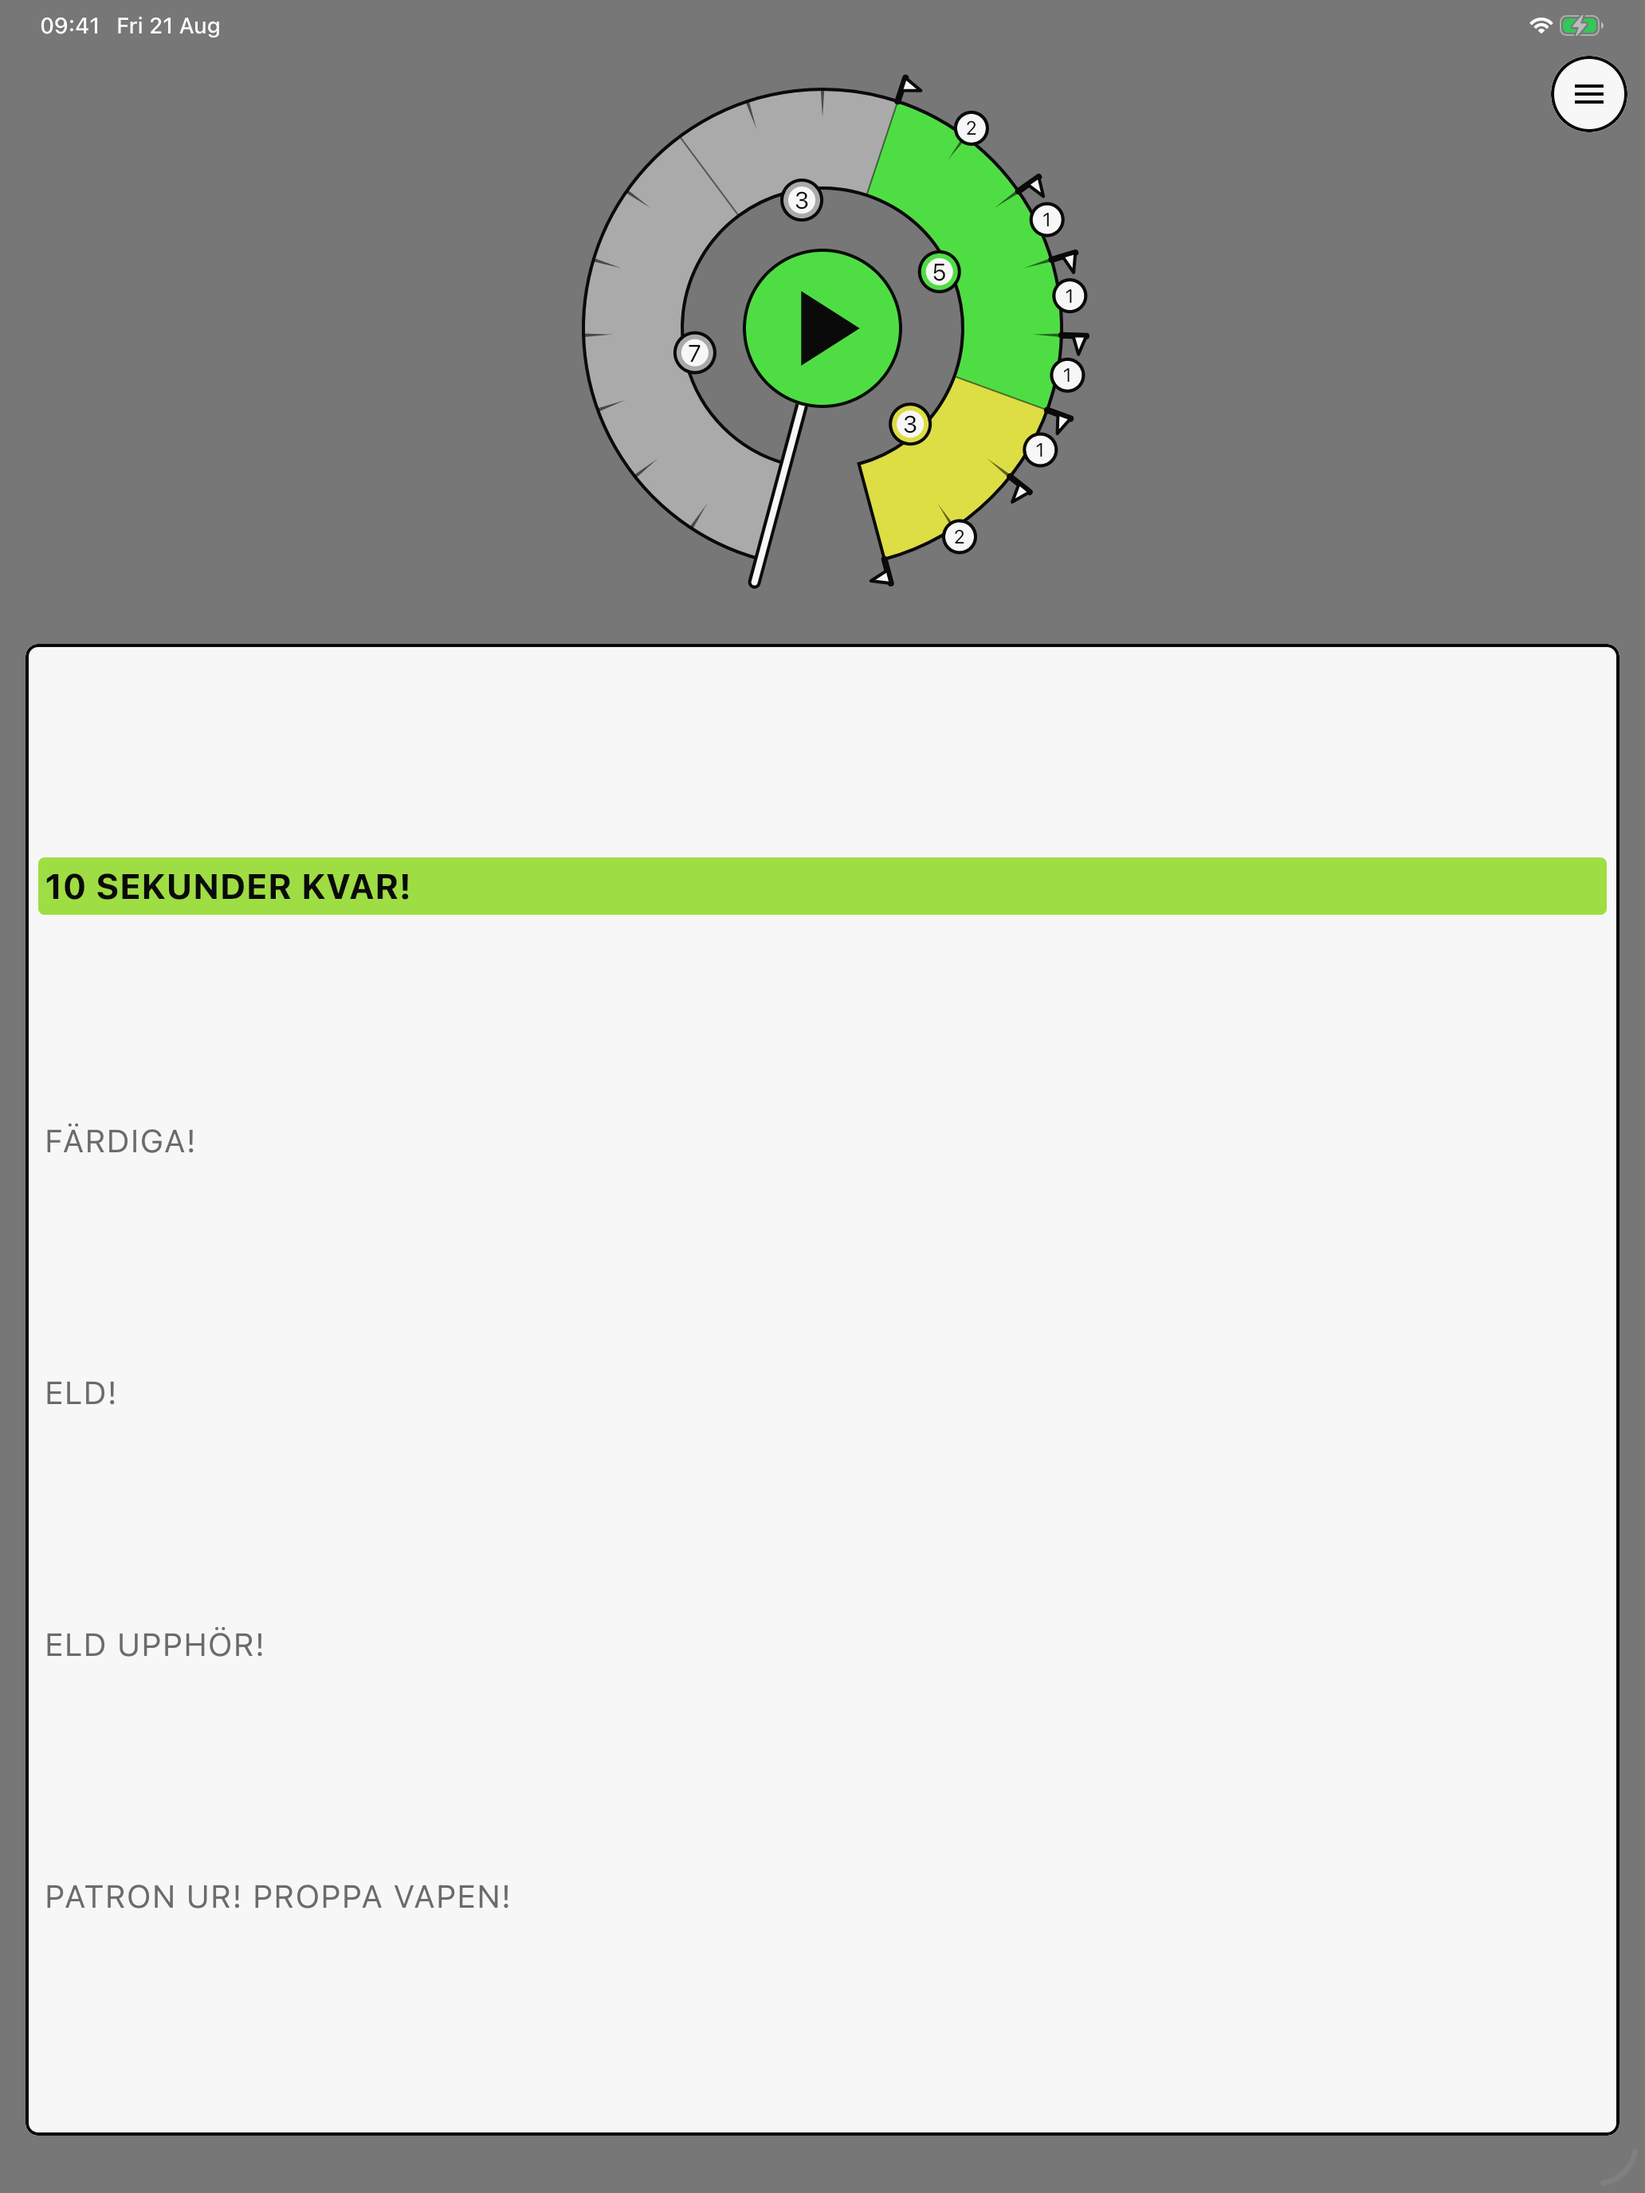
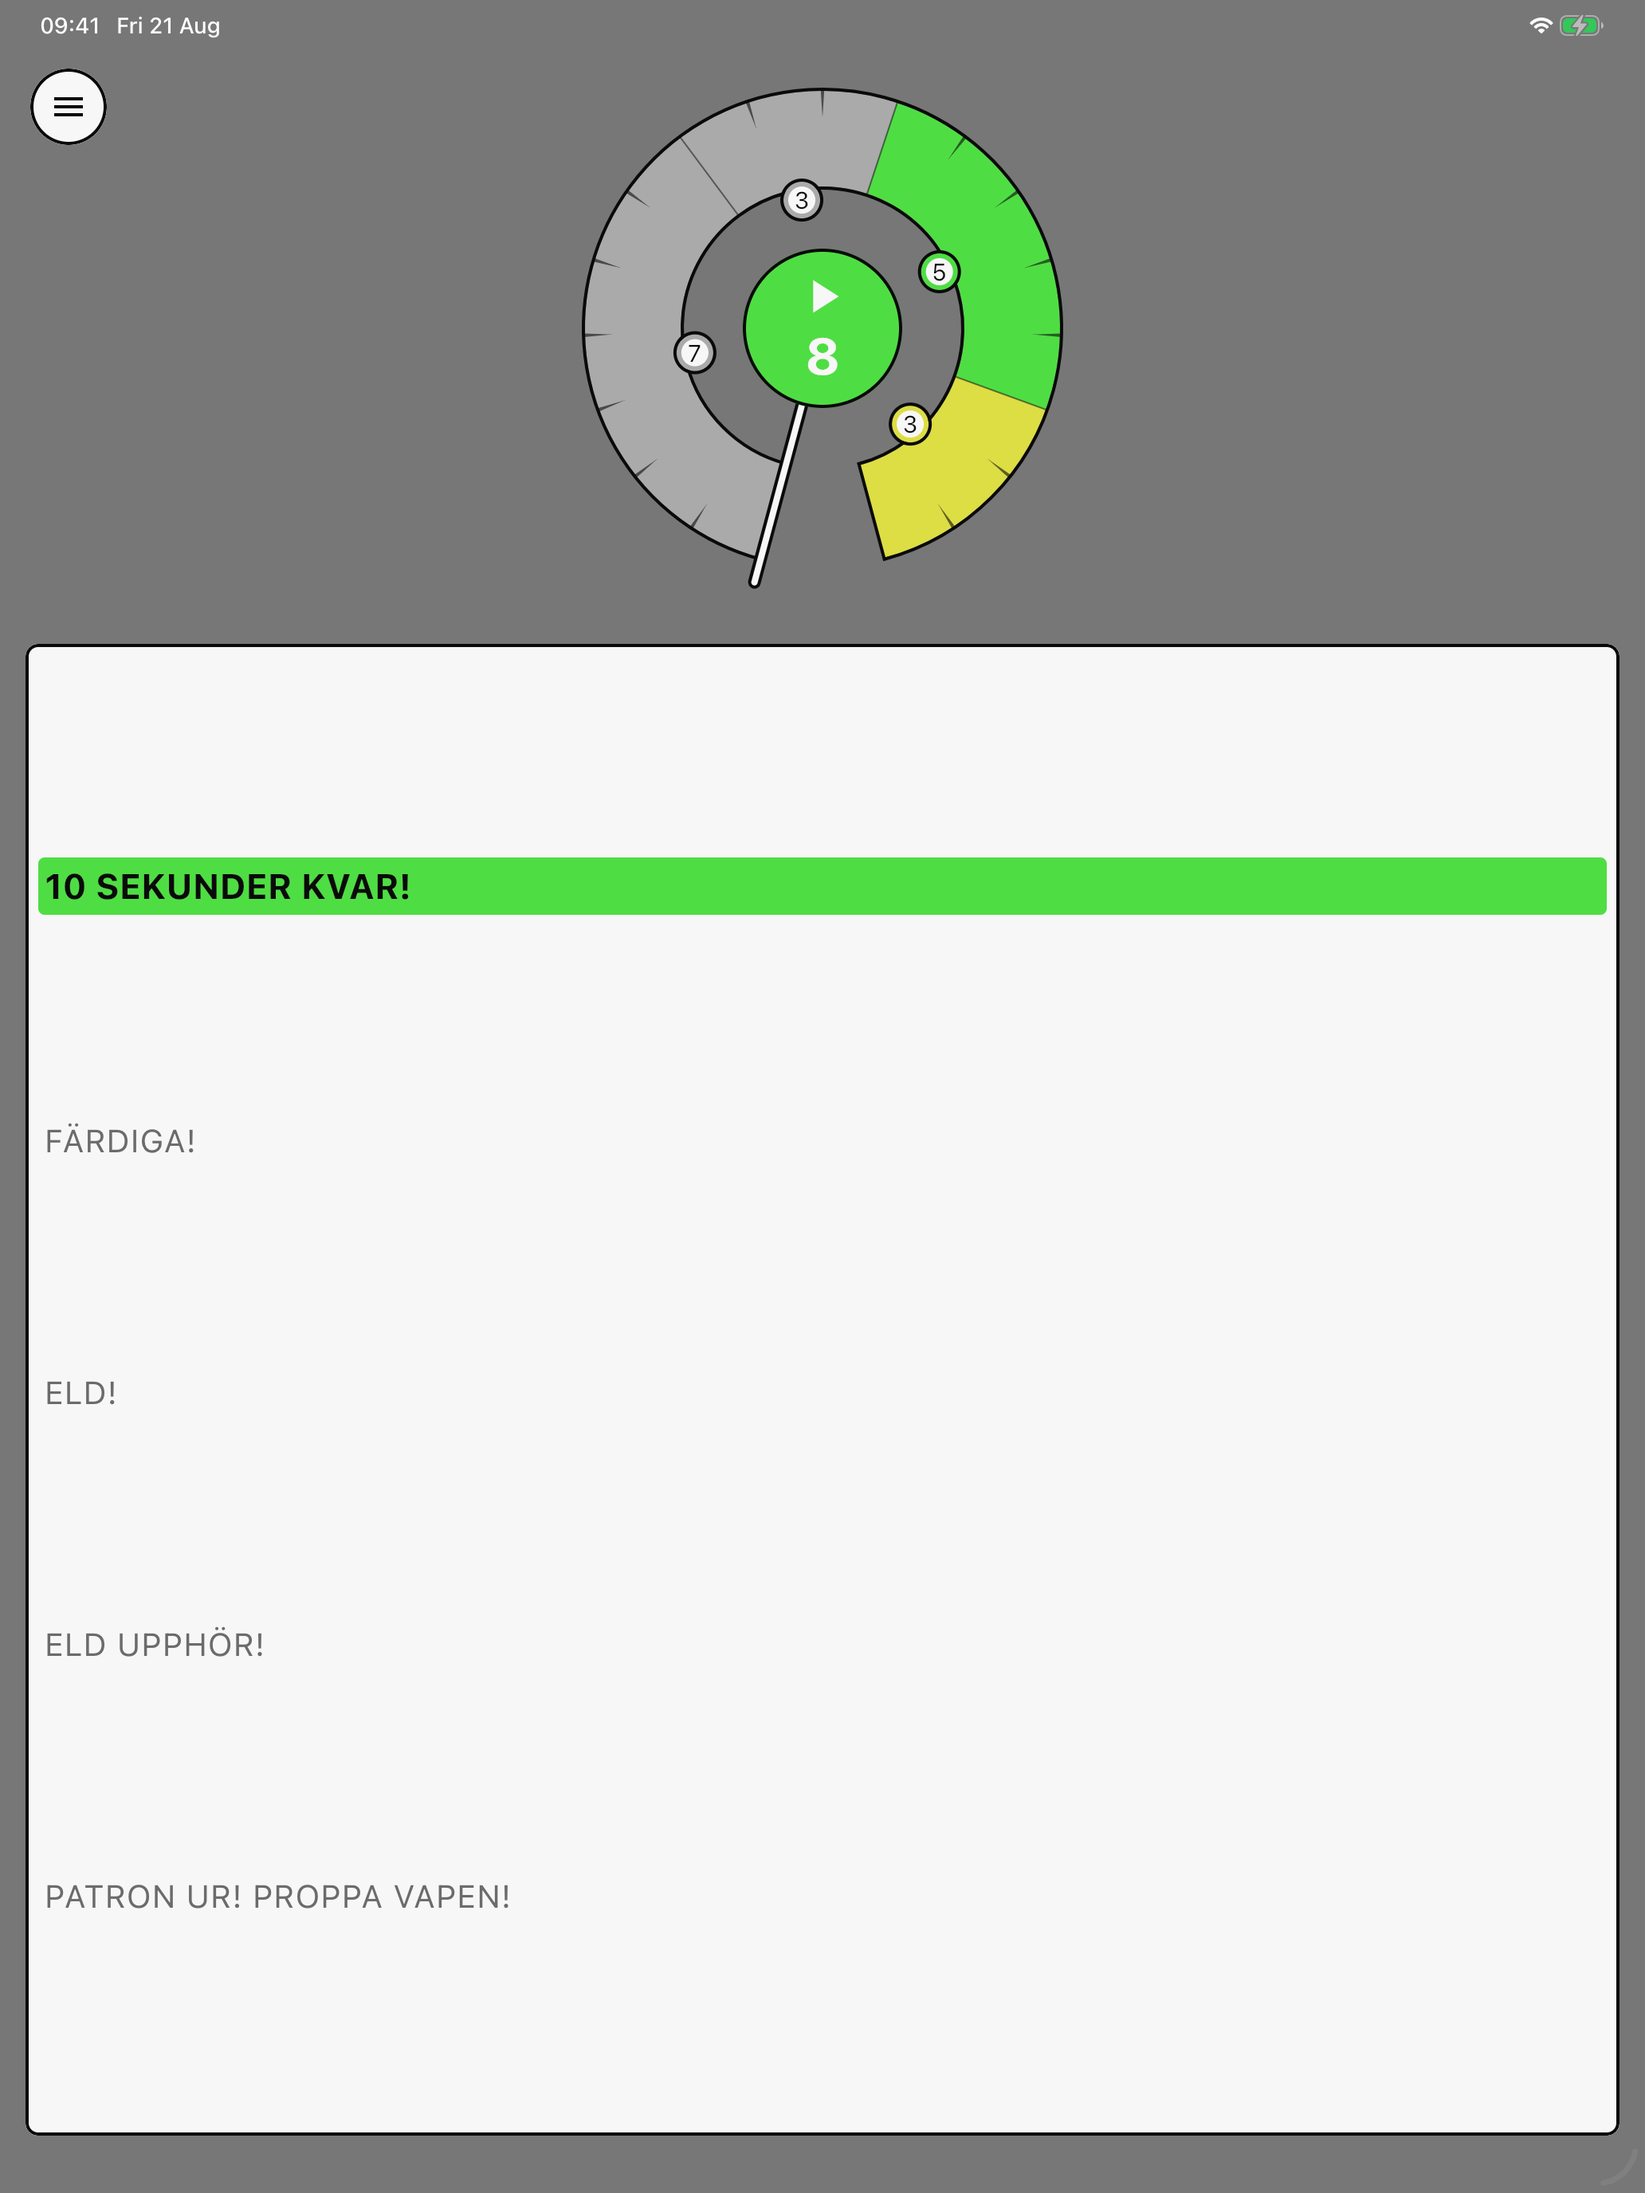
Bump version to 1.11.0 (build 15)
Release notes for both stores are written against v1.8.1, the version live
on Play and the App Store — 1.9.x and 1.10.0 never went public.

Both store fronts' screenshots are retaken on the current UI: the labeled
speed-dial menu, the play button's shooting-time countdown, and the green
command-list highlight. The iPhone set gains a menu shot, so the portrait
and landscape numbering shifts by one.

Claude-Session: https://claude.ai/code/session_0115Cf8BWPcM9EJ9aPcffsBa

diff --git a/iosApp/iosAppUITests/ScreenshotTests.swift b/iosApp/iosAppUITests/ScreenshotTests.swift
@@ -5,6 +5,9 @@ import XCTest
 // filesystem). Runs headless:
 //   xcodebuild test -scheme iosApp -destination id=<udid> \
 //     -only-testing:iosAppUITests/ScreenshotTests/<method>
+// The landscape PNGs come out in the device's native portrait frame with the
+// content rotated, so rotate them before they go in fastlane/screenshots/:
+//   sips -r 270 /tmp/shots/0[456]_landscape_*.png
 // Timings assume a fresh install: training mode, 5 s fire time, so the
 // sequence is 0-7 TenSecondsLeft, 7-10 Ready, 10-15 Fire, 15-18 CeaseFire,
 // 18-21 silent pause, 21-25 UnloadWeapon (training ends there).
